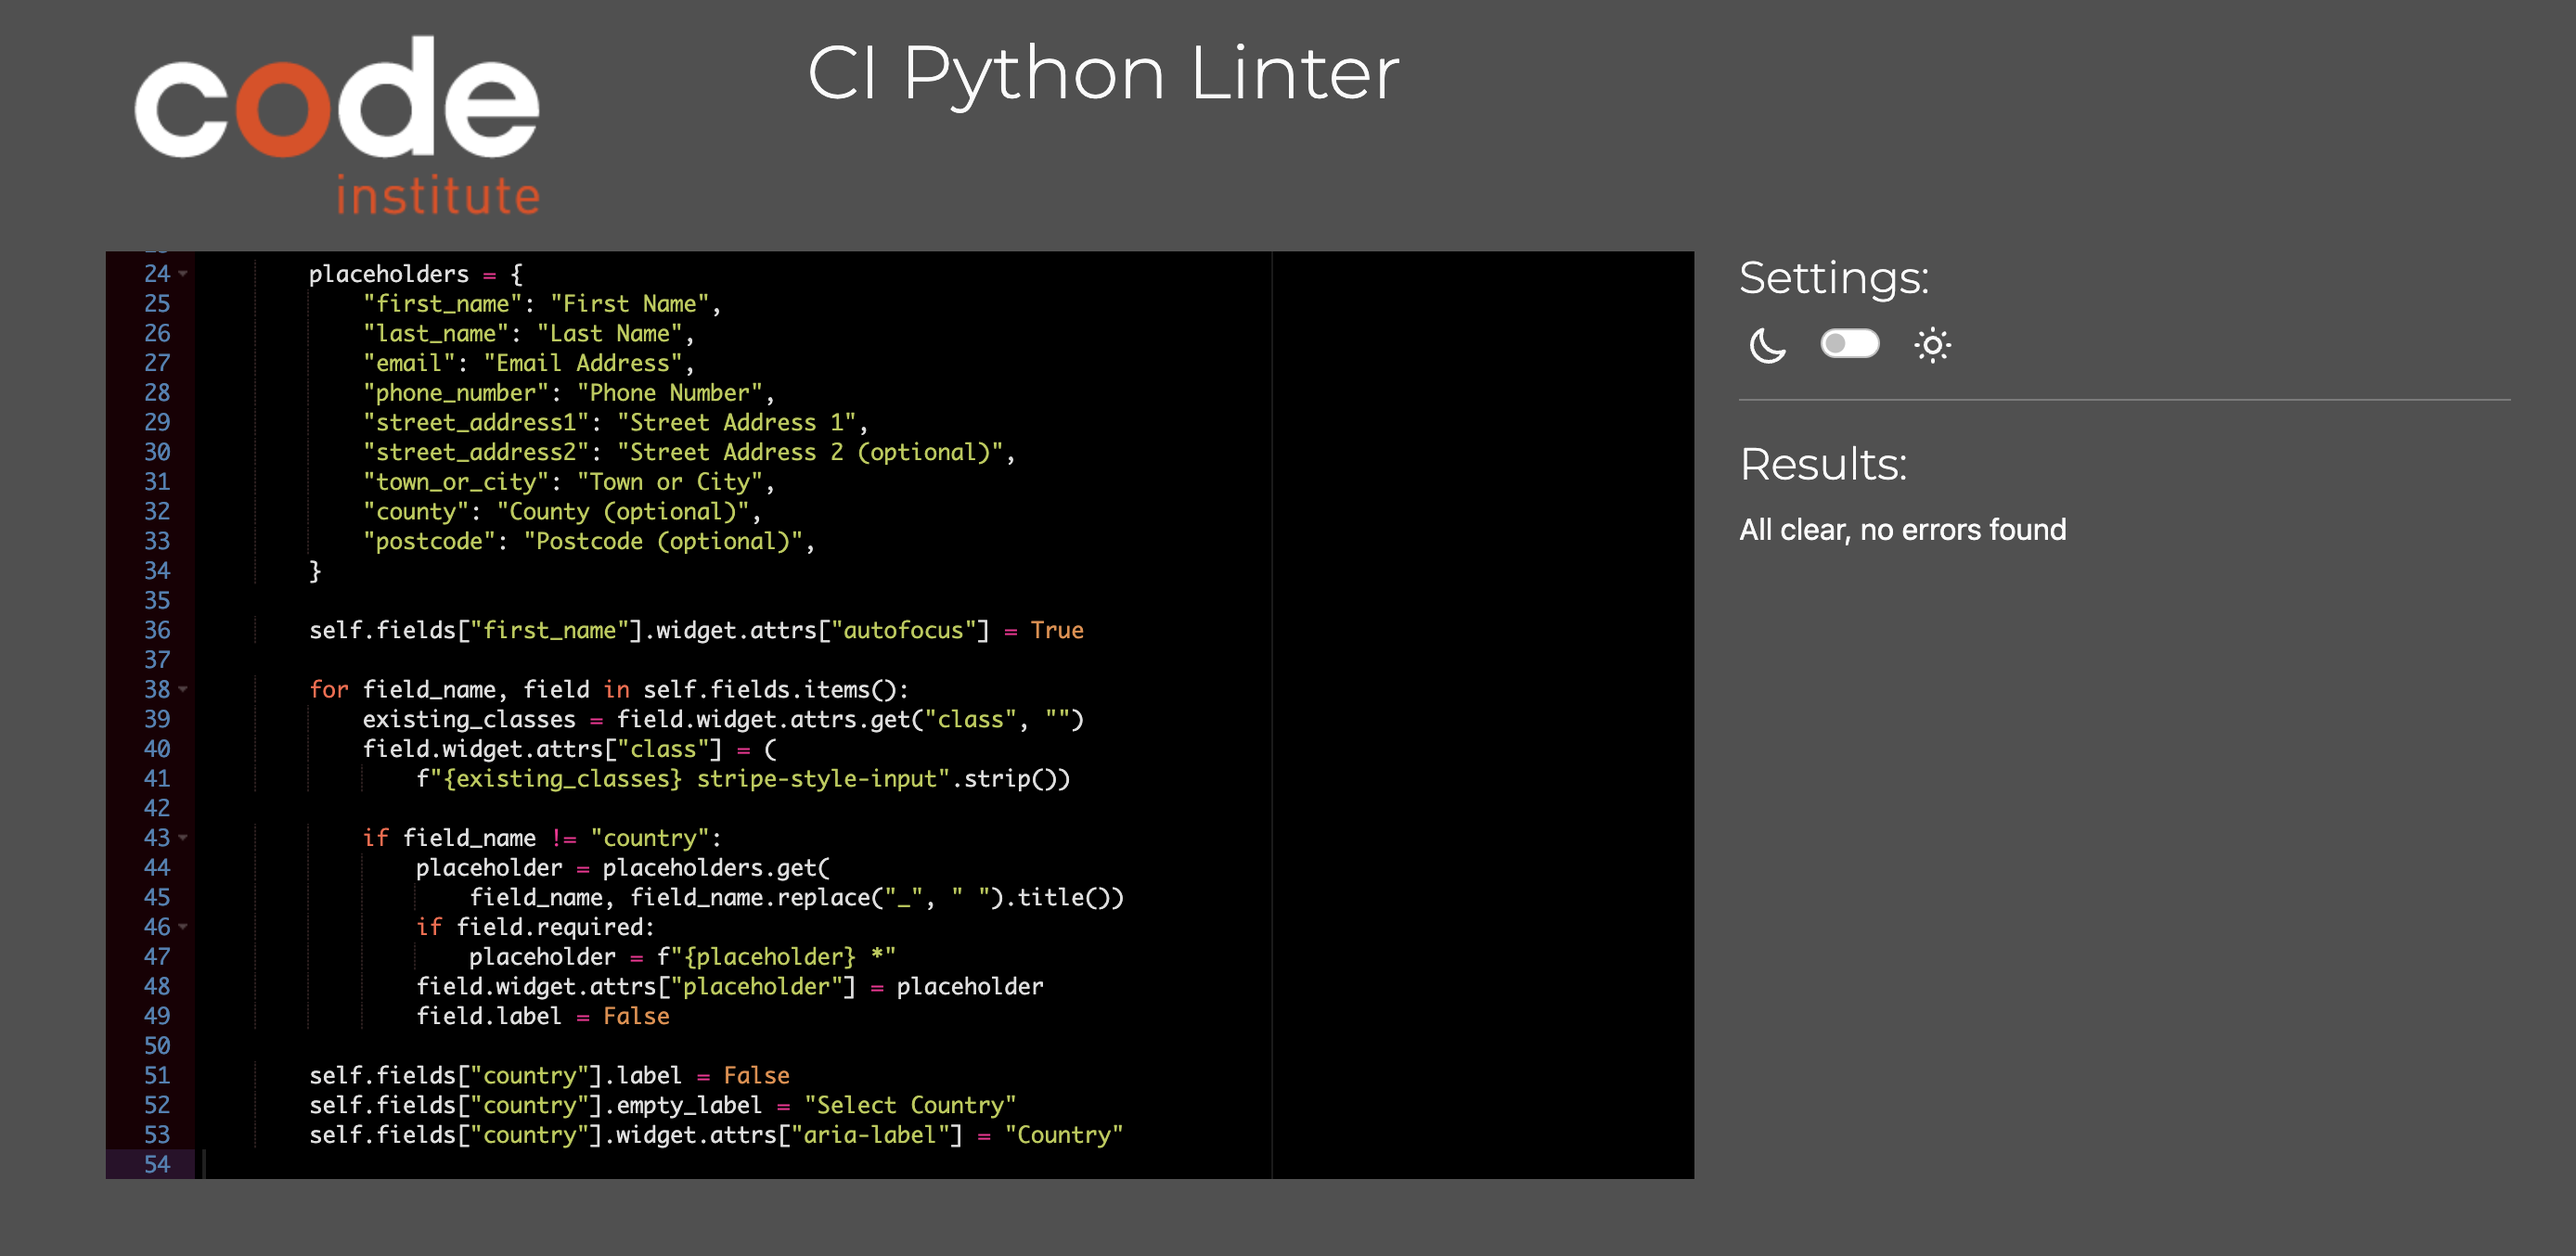
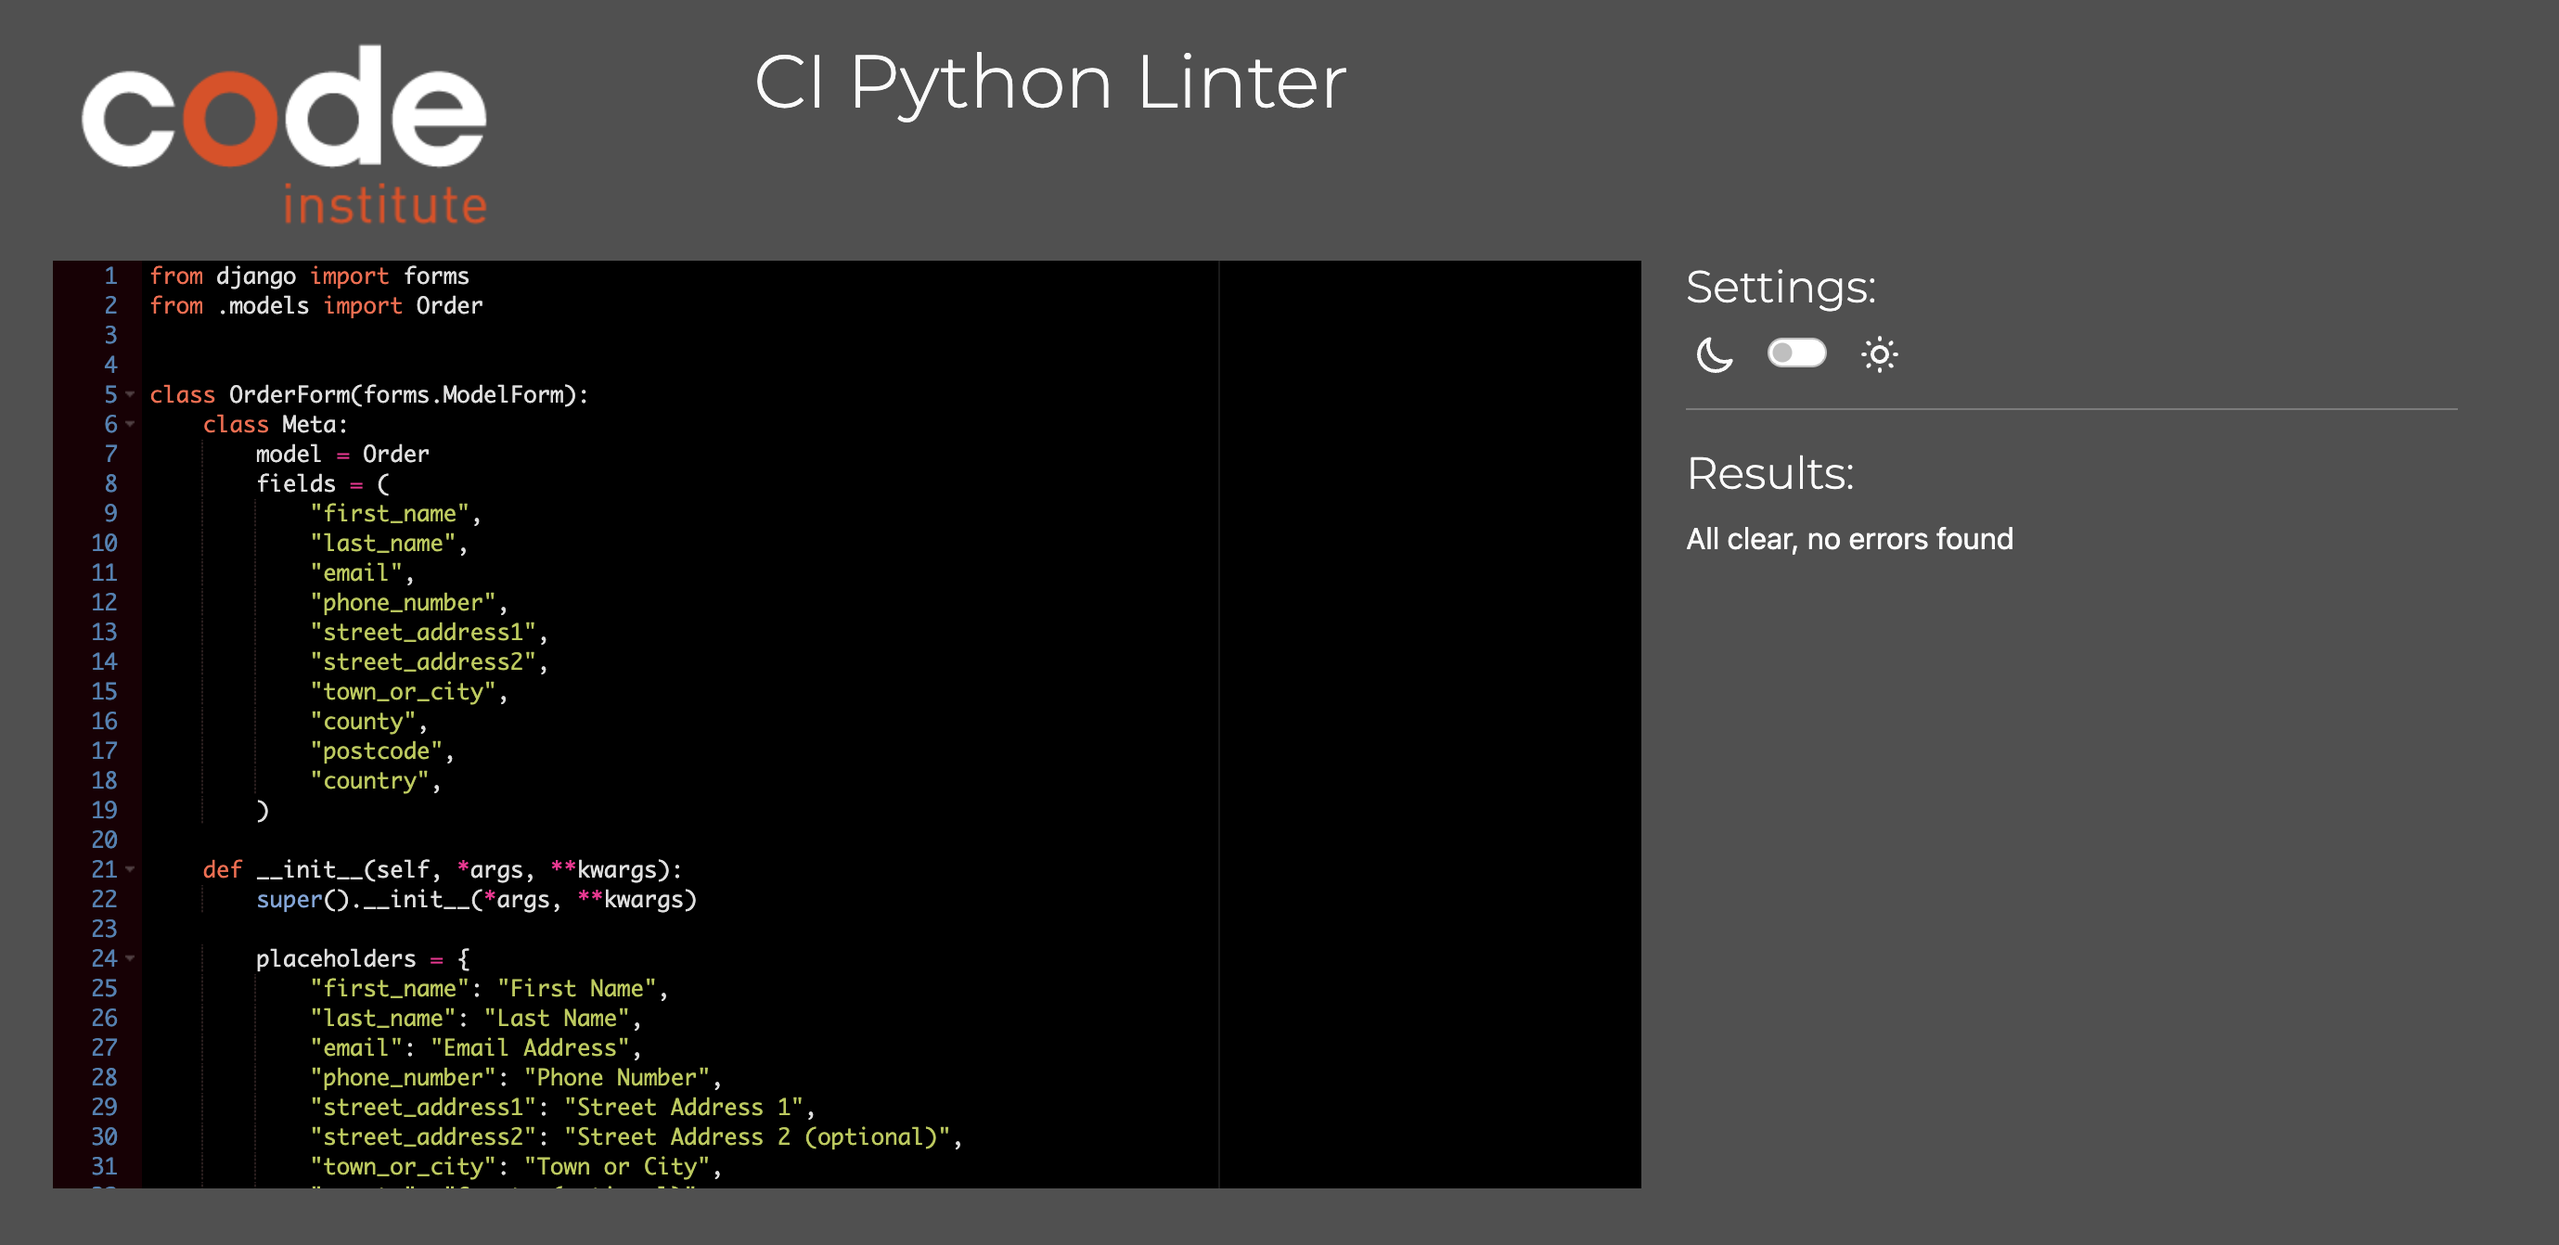
add in lighthouse images and add validation images to readme

Changed region(s): [[0.0, 0.0306, 0.8107, 0.9776], [0.2806, 0.0306, 0.5301, 0.0917], [0.3742, 0.7027, 0.4365, 0.7332]]

diff --git a/README.md b/README.md
@@ -593,7 +593,7 @@ The code has two versions - a mobile version and a desktop version, which change
 Home | Desktop | 
 Home | Mobile | 
 Products | Desktop | 
-Products | Mobile | 0%
+Products | Mobile |
 Product Details | Desktop | 
 Product Details | Mobile | 
 Add Product | Desktop | 
@@ -630,86 +630,92 @@ Sign Up | Mobile
 ### HTML Validation
 | Page | Report | Notes
 --- | --- |---
-Home |  |
-Products | | 
-Product Details | |
-Add Product | |
-Amend Product | | 
-Bag | |
-Checkout | |
-Order Confirmation | |
-Profile | |
-Contact | |
-About | |
-FAQ | |
-Privacy | |
-Returns | |
-Shipping | |
+Home | ![HTML Validation - Home](https://github.com/foster95/the_tavern/blob/main/documentation/html/home.png) |
+Products | ![HTML Validation - Products](https://github.com/foster95/the_tavern/blob/main/documentation/html/products.png) | 
+Product Details | ![HTML Validation - Product Details](https://github.com/foster95/the_tavern/blob/main/documentation/html/product-details.png) |
+Add Product | ![HTML Validation - Add Product](https://github.com/foster95/the_tavern/blob/main/documentation/html/product-add.png) |
+Amend Product | ![HTML Validation - Amend Product](https://github.com/foster95/the_tavern/blob/main/documentation/html/product-amend.png) | 
+Bag | ![HTML Validation - Bag](https://github.com/foster95/the_tavern/blob/main/documentation/html/bag.png) |
+Checkout | ![HTML Validation - Checkout](https://github.com/foster95/the_tavern/blob/main/documentation/html/checkout.png) |
+Order Confirmation | ![HTML Validation - Order Confirmation](https://github.com/foster95/the_tavern/blob/main/documentation/html/checkout-confirmation.png) |
+Profile | ![HTML Validation - Profile](https://github.com/foster95/the_tavern/blob/main/documentation/html/profile.png) | Minor info warning due to trailing slashes implented by Django forms. Unfixed due to insignificance. 
+Contact | ![HTML Validation - Contact](https://github.com/foster95/the_tavern/blob/main/documentation/html/contact.png) |
+About | ![HTML Validation - About](https://github.com/foster95/the_tavern/blob/main/documentation/html/about.png) |
+FAQ | ![HTML Validation - FAQ](https://github.com/foster95/the_tavern/blob/main/documentation/html/faq.png) |
+Privacy | ![HTML Validation - Privacy](https://github.com/foster95/the_tavern/blob/main/documentation/html/privacy.png) |
+Returns | ![HTML Validation - Returns](https://github.com/foster95/the_tavern/blob/main/documentation/html/returns.png)|
+Shipping | ![HTML Validation - Shipping](https://github.com/foster95/the_tavern/blob/main/documentation/html/shipping.png) |
+Sign In | ![HTML Validation - Sign In](https://github.com/foster95/the_tavern/blob/main/documentation/html/login.png) |
+Sign Out | ![HTML Validation - Sign Out](https://github.com/foster95/the_tavern/blob/main/documentation/html/logout.png) |
+Sign Up | ![HTML Validation - Sign Up](https://github.com/foster95/the_tavern/blob/main/documentation/html/signup.png) |
+Sign In - Google | ![HTML Validation - Sign In - Google](https://github.com/foster95/the_tavern/blob/main/documentation/html/google-login.png) |
+Sign In - Facebook | ![HTML Validation - Sign In - Facebook](https://github.com/foster95/the_tavern/blob/main/documentation/html/facebook-login.png) |
+
 
 ### PEP8 Validation
 #### Home
 | File | PEP8 Response
 --- | ---
-Admin | 
-Apps |
-Models |
-URLs |
-Views |
+Admin | ![PEP8 Validation - Home/Admin](https://github.com/foster95/the_tavern/blob/main/documentation/pep8/home-admin.png)
+Apps | ![PEP8 Validation - Home/Apps](https://github.com/foster95/the_tavern/blob/main/documentation/pep8/home-apps.png)
+Models | ![PEP8 Validation - Home/Models](https://github.com/foster95/the_tavern/blob/main/documentation/pep8/home-models.png)
+URLs | ![PEP8 Validation - Home/URLS](https://github.com/foster95/the_tavern/blob/main/documentation/pep8/home-urls.png)
+Views | ![PEP8 Validation - Home/Views](https://github.com/foster95/the_tavern/blob/main/documentation/pep8/home-views.png)
 
 #### Products
 | File | PEP8 Response
 --- | ---
-Admin | 
-Apps |
-Forms |
-Models |
-URLs |
-Views |
+Admin | ![PEP8 Validation - Products/Admin](https://github.com/foster95/the_tavern/blob/main/documentation/pep8/products-admin.png)
+Apps | ![PEP8 Validation - Products/Apps](https://github.com/foster95/the_tavern/blob/main/documentation/pep8/products-apps.png)
+Forms | ![PEP8 Validation - Products/Forms](https://github.com/foster95/the_tavern/blob/main/documentation/pep8/products-forms.png)
+Models | ![PEP8 Validation - Products/Models](https://github.com/foster95/the_tavern/blob/main/documentation/pep8/products-models.png)
+URLs | ![PEP8 Validation - Products/URLS](https://github.com/foster95/the_tavern/blob/main/documentation/pep8/products-urls.png)
+Views | ![PEP8 Validation - Products/Views](https://github.com/foster95/the_tavern/blob/main/documentation/pep8/products-views.png)
 
 #### Bag
 | File | PEP8 Response
 --- | ---
-Admin | 
-Apps |
-Contexts |
-Models |
-URLs |
-Views |
+Admin | ![PEP8 Validation - Bag/Admin](https://github.com/foster95/the_tavern/blob/main/documentation/pep8/bag-admin.png)
+Apps | ![PEP8 Validation - Bag/Apps](https://github.com/foster95/the_tavern/blob/main/documentation/pep8/bag-apps.png)
+Contexts | ![PEP8 Validation - Bag/Contexts](https://github.com/foster95/the_tavern/blob/main/documentation/pep8/bag-contexts.png)
+Models | ![PEP8 Validation - Bag/Models](https://github.com/foster95/the_tavern/blob/main/documentation/pep8/bag-models.png)
+URLs | ![PEP8 Validation - Bag/URLS](https://github.com/foster95/the_tavern/blob/main/documentation/pep8/bag-urls.png)
+Views | ![PEP8 Validation - Bag/Views](https://github.com/foster95/the_tavern/blob/main/documentation/pep8/bag-views.png)
 
 #### Checkout
 | File | PEP8 Response
 --- | ---
-Admin | 
-Apps |
-Forms |
-Models |
-Signals |
-URLs |
-Views |
-Webhook-Handler |
-Webhooks
+Admin | ![PEP8 Validation - Checkout/Admin](https://github.com/foster95/the_tavern/blob/main/documentation/pep8/checkout-admin.png)
+Apps | ![PEP8 Validation - Checkout/Apps](https://github.com/foster95/the_tavern/blob/main/documentation/pep8/checkout-apps.png)
+Forms | ![PEP8 Validations - Checkout/Forms]()
+Models | ![PEP8 Validation - Checkout/Models](https://github.com/foster95/the_tavern/blob/main/documentation/pep8/checkout-models.png)
+Signals | ![PEP8 Validation - Checkout/Signals](https://github.com/foster95/the_tavern/blob/main/documentation/pep8/checkout-signals.png)
+URLs | ![PEP8 Validation - Checkout/URLS](https://github.com/foster95/the_tavern/blob/main/documentation/pep8/checkout-urls.png)
+Views | ![PEP8 Validation - Checkout/Views](https://github.com/foster95/the_tavern/blob/main/documentation/pep8/checkout-views.png)
+Webhook-Handler | ![PEP8 Validation - Checkout/Webhook-Handler](https://github.com/foster95/the_tavern/blob/main/documentation/pep8/checkout-webhook-handler.png)
+Webhooks | ![PEP8 Validation - Checkout/Webhooks](https://github.com/foster95/the_tavern/blob/main/documentation/pep8/checkout-webhooks.png)
 
 #### Profiles
 | File | PEP8 Response
 --- | ---
-Admin | 
-Apps |
-Models |
-Forms |
-URLs |
-Views |
+Admin | ![PEP8 Validation - Profiles/Admin](https://github.com/foster95/the_tavern/blob/main/documentation/pep8/profiles-admin.png)
+Apps | ![PEP8 Validation - Profiles/Apps](https://github.com/foster95/the_tavern/blob/main/documentation/pep8/profiles-apps.png)
+Forms | ![PEP8 Validation - Profiles/Forms](https://github.com/foster95/the_tavern/blob/main/documentation/pep8/profiles-forms.png)
+Models | ![PEP8 Validation - Profiles/Models](https://github.com/foster95/the_tavern/blob/main/documentation/pep8/profiles-models.png)
+URLs | ![PEP8 Validation - Profile/URLS](https://github.com/foster95/the_tavern/blob/main/documentation/pep8/profiles-urls.png)
+Views | ![PEP8 Validation - Profile/Views](https://github.com/foster95/the_tavern/blob/main/documentation/pep8/profiles-views.png)
 
 ### JShint
 | File | JShint
 --- | ---
-newsletter.js | 
-bag.js |
-stripe_elements.js |
-product_details.js |
-product_form.js |
-product_review.js |
-products.js |
-profile.js |
+newsletter.js | ![JShint Validation - Newsletter](https://github.com/foster95/the_tavern/blob/main/documentation/jshint/newsletter.png)
+bag.js | ![JShint Validation - Bag](https://github.com/foster95/the_tavern/blob/main/documentation/jshint/bag.png)
+stripe_elements.js | ![JShint Validation - Stripe_Elements](https://github.com/foster95/the_tavern/blob/main/documentation/jshint/stripe-elements.png)
+product_details.js | ![JShint Validation - Product_Details](https://github.com/foster95/the_tavern/blob/main/documentation/jshint/product-details.png)
+product_form.js | ![JShint Validation - Product_Form](https://github.com/foster95/the_tavern/blob/main/documentation/jshint/product-form.png)
+product_review.js | ![JShint Validation - Product_Review](https://github.com/foster95/the_tavern/blob/main/documentation/jshint/product-review.png)
+products.js | ![JShint Validation - Products](https://github.com/foster95/the_tavern/blob/main/documentation/jshint/products.png)
+profile.js | ![JShint Validation - Profile](https://github.com/foster95/the_tavern/blob/main/documentation/jshint/profile.png)
 
 
 
